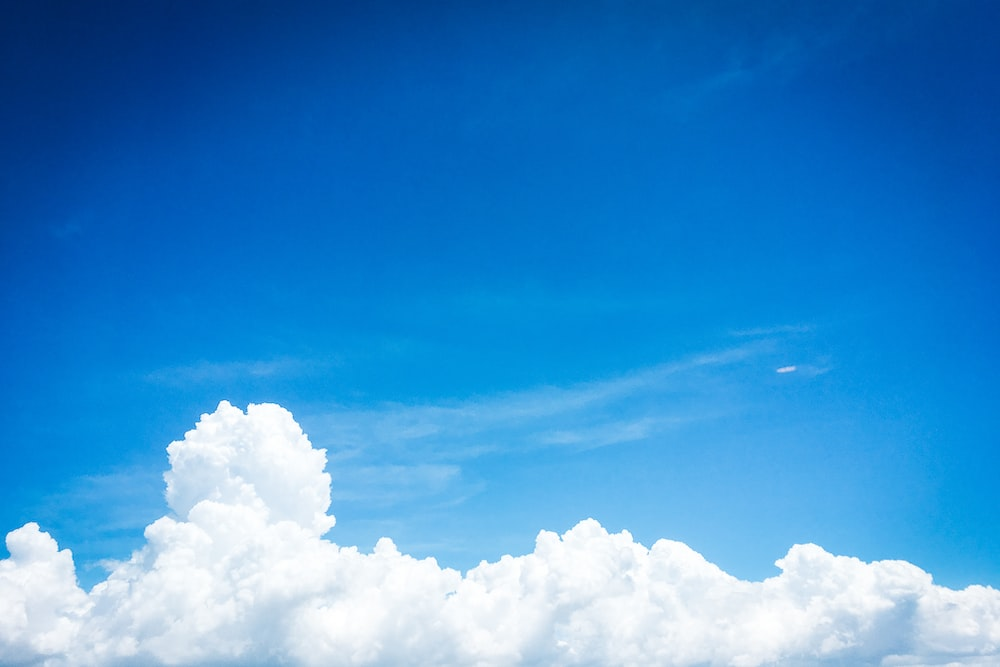
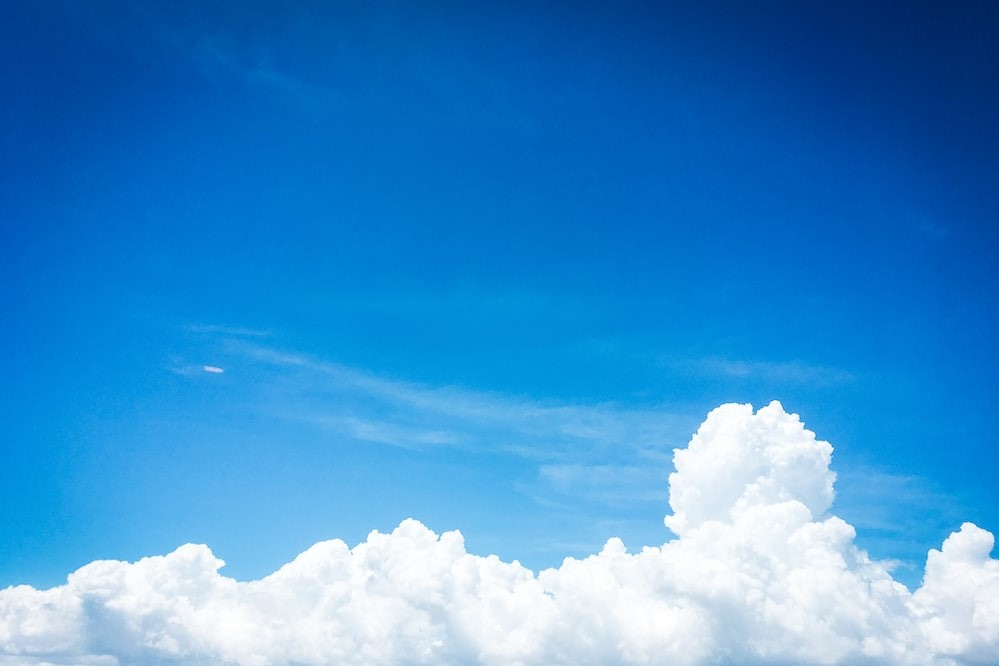
update Heading

diff --git a/Sunny Day/wwwroot/css/site.css b/Sunny Day/wwwroot/css/site.css
@@ -46,21 +46,20 @@ body {
 }
 
 .faded-bg-image {
- background-image: url("/images/skyCropped.jpg"); 
- background-repeat:no-repeat;
-    background-size: 100vw 400px;
-
+    background-image: url("/images/skyCropped.jpg");
+    background-repeat: no-repeat;
+    background-size: 120vw 600px;
+    background-position: -1vw -200px;
     position: absolute;
     height: 100%;
     width: 100vw;
     filter: blur(5px);
-    
 }
 .faded-bg-inner {
     background-image: url("/images/skyCropped.jpg");
     background-repeat: no-repeat;
-    background-size: 125vw 500px;
-    background-position: -12vw -115px;
+    background-size: 100vw 500px;
+    background-position: -1vw -130px;
     height: 80%;
     width: 80%;
     position: absolute;
@@ -71,3 +70,18 @@ body {
 .over-color {
     background-color: #4f4f4f;
 }
+
+.rounded {
+    border-radius: 45%;
+}
+
+.headFont {
+    font-family: 'Open Sans', sans-serif;
+    color: white;
+    font-size: 2.05em;
+}
+
+.rainCheckName {
+    padding: 1%;
+}
+

diff --git a/Sunny Day/Services/JsonFileRainfallService.cs b/Sunny Day/Services/JsonFileRainfallService.cs
@@ -1,13 +1,7 @@
-using System.Collections.Generic;
-using System.IO;
-using System.Net.Http.Headers;
-using System.Text.Json;
+using Newtonsoft.Json;
 using Sunny_Day.Models;
-using Microsoft.Extensions.Configuration;
+using System.Net.Http.Headers;
 using System.Text;
-using Newtonsoft.Json;
-using System.Runtime.Intrinsics.X86;
-using System;
 
 namespace Sunny_Day.Services
 {
@@ -54,7 +48,7 @@ namespace Sunny_Day.Services
                 latLngArray.lat = -41.2;
                 latLngArray.lon = 174.9;
 
-                var latLngList = new List<LatLngArray>{latLngArray};
+                var latLngList = new List<LatLngArray> { latLngArray };
 
                 TimeIntervals time = new TimeIntervals();
                 time.from = dateISO8602Start;
@@ -97,12 +91,12 @@ namespace Sunny_Day.Services
                     };
 
                     var json = response.Content.ReadAsStringAsync().Result;
-                   yield return metserviceResponse = (JsonConvert.DeserializeObject<Rainfall>(json, deserialiserSettings));
+                    yield return metserviceResponse = (JsonConvert.DeserializeObject<Rainfall>(json, deserialiserSettings));
 
                 }
 
             }
-           
+
         }
     }
 }

diff --git a/Sunny Day/Models/Rainfall.cs b/Sunny Day/Models/Rainfall.cs
@@ -1,5 +1,4 @@
 using Newtonsoft.Json;
-using System;
 
 namespace Sunny_Day.Models
 {
@@ -12,9 +11,10 @@ namespace Sunny_Day.Models
 
     }
 
-    public class Dimensions {
+    public class Dimensions
+    {
         public Time? time { get; set; }
-      
+
     }
 
     public class Time
@@ -31,7 +31,7 @@ namespace Sunny_Day.Models
     public class Precipitation
     {
 
-        
+
         public double?[] data { get; set; }
     }
 }

diff --git a/Sunny Day/Models/MetserviceRequest.cs b/Sunny Day/Models/MetserviceRequest.cs
@@ -3,7 +3,7 @@ namespace Sunny_Day.Models
 
     public class MetserviceRequestTemplate
     {
-        
+
         public List<LatLngArray> points { get; set; }
         public string[] variables { get; set; }
         public TimeIntervals time { get; set; }

diff --git a/Sunny Day/Pages/Index.cshtml.cs b/Sunny Day/Pages/Index.cshtml.cs
@@ -1,5 +1,4 @@
-using Microsoft.AspNetCore.Mvc;
-using Microsoft.AspNetCore.Mvc.RazorPages;
+using Microsoft.AspNetCore.Mvc.RazorPages;
 using Sunny_Day.Models;
 using Sunny_Day.Services;
 

diff --git a/Sunny Day/Pages/Privacy.cshtml.cs b/Sunny Day/Pages/Privacy.cshtml.cs
@@ -1,5 +1,4 @@
-using Microsoft.AspNetCore.Mvc;
-using Microsoft.AspNetCore.Mvc.RazorPages;
+using Microsoft.AspNetCore.Mvc.RazorPages;
 
 namespace Sunny_Day.Pages
 {
